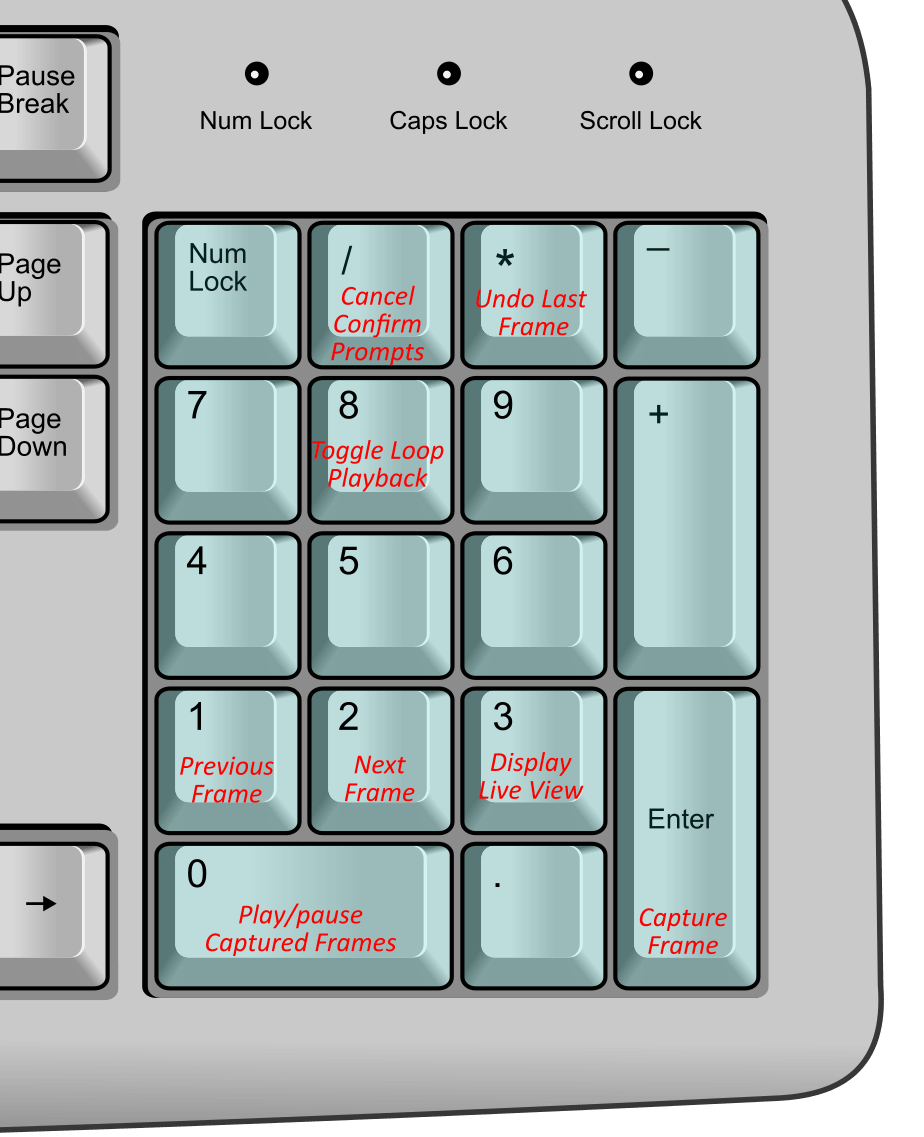
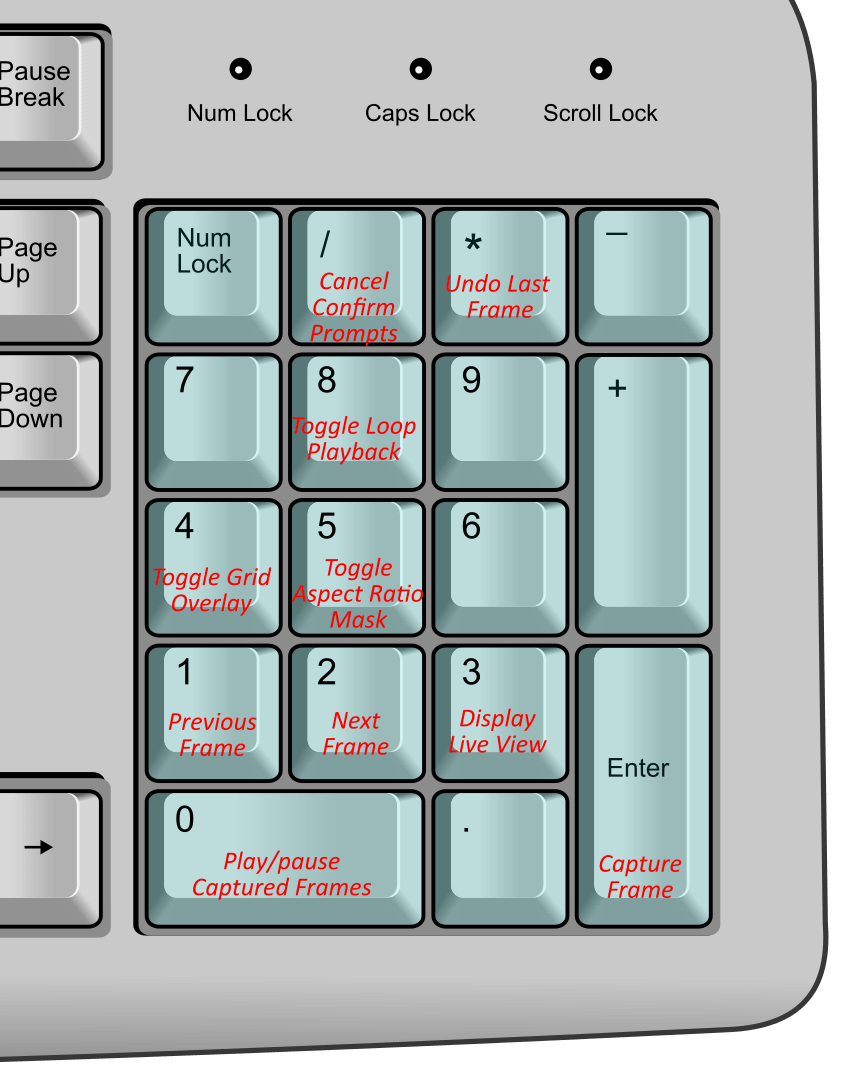
Update keyboard shortcut docs

diff --git a/docs/features/keyboard-shortcuts.md b/docs/features/keyboard-shortcuts.md
@@ -4,23 +4,25 @@ There are numerous keyboard shortcuts available in Boats Animator; here is a com
 !!! note "Note for macOS users:"
     The `Command` key should be used in place of any shortcuts listed with `Ctrl` in them.
 
-| Action                  | Primary          | Alt 1        | Alt 2           | Alt 3   |
-|-------------------------|------------------|--------------|-----------------|---------|
-| **Main shortcuts**      |                  |              |                 |         |
-| Capture frame           | **`Ctrl 1`**     | **`Enter`**  |                 |         |
-| Undo last frame         | **`Ctrl Z`**     | **`Delete`** | **`Backspace`** | **`*`** |
-| Toggle audio            | **`Ctrl M`**     |              |                 |         |
-| Play / pause playback   | **`Space`**      | **`0`**      |                 |         |
-| Toggle playback looping | **`8`**          |              |                 |         |
-| Live view               | **`L`**          | **`3`**      |                 |         |
-| Display first frame     | **`Ctrl Left`**  |              |                 |         |
-| Display last frame      | **`Ctrl Right`** |              |                 |         |
-| Display previous frame  | **`Left`**       | **`1`**      |                 |         |
-| Display next frame      | **`Right`**      | **`2`**      |                 |         |
-|                         |                  |              |                 |         |
-| **Confirm prompts**     |                  |              |                 |         |
-| Select confirm button   | **`Enter`**      |              |                 |         |
-| Cancel confirm prompt   | **`Esc`**        | **`/`**      |                 |         |
+| Action                   | Primary          | Alt 1        | Alt 2           | Alt 3   |
+|--------------------------|------------------|--------------|-----------------|---------|
+| **Main shortcuts**       |                  |              |                 |         |
+| Capture frame            | **`Ctrl 1`**     | **`Enter`**  |                 |         |
+| Undo last frame          | **`Ctrl Z`**     | **`Delete`** | **`Backspace`** | **`*`** |
+| Toggle audio             | **`Ctrl M`**     |              |                 |         |
+| Play / pause playback    | **`Space`**      | **`0`**      |                 |         |
+| Toggle playback looping  | **`8`**          |              |                 |         |
+| Live view                | **`L`**          | **`3`**      |                 |         |
+| Display first frame      | **`Ctrl Left`**  |              |                 |         |
+| Display last frame       | **`Ctrl Right`** |              |                 |         |
+| Display previous frame   | **`Left`**       | **`1`**      |                 |         |
+| Display next frame       | **`Right`**      | **`2`**      |                 |         |
+| Toggle grid overlay      | **`4`**          |              |                 |         |
+| Toggle aspect ratio mask | **`5`**          |              |                 |         |
+|                          |                  |              |                 |         |
+| **Confirm prompts**      |                  |              |                 |         |
+| Select confirm button    | **`Enter`**      |              |                 |         |
+| Cancel confirm prompt    | **`Esc`**        | **`/`**      |                 |         |
 
 ## Shortcuts on a number keypad
 Boats Animator's shortcuts have been chosen so that the most common can be accessed using a number keypad:

diff --git a/docs/features/main-window.md b/docs/features/main-window.md
@@ -157,8 +157,8 @@ Select this to change the folder Boats Animator exports captured frames to.
 
 ### Overlays
 
-#### Grid
+#### Grid overlay
 This displays a grid over the preview area in capture mode when the toggle button is selected. When enabled, the grid can be configured via a drop-menu and the opacity slider.
 
-#### Aspect ratio
+#### Aspect ratio mask
 This displays a mask of the selected aspect ratio over the preview area when the toggle button is selected. When enabled, the mask can be configured via a drop-menu and the opacity slider.
